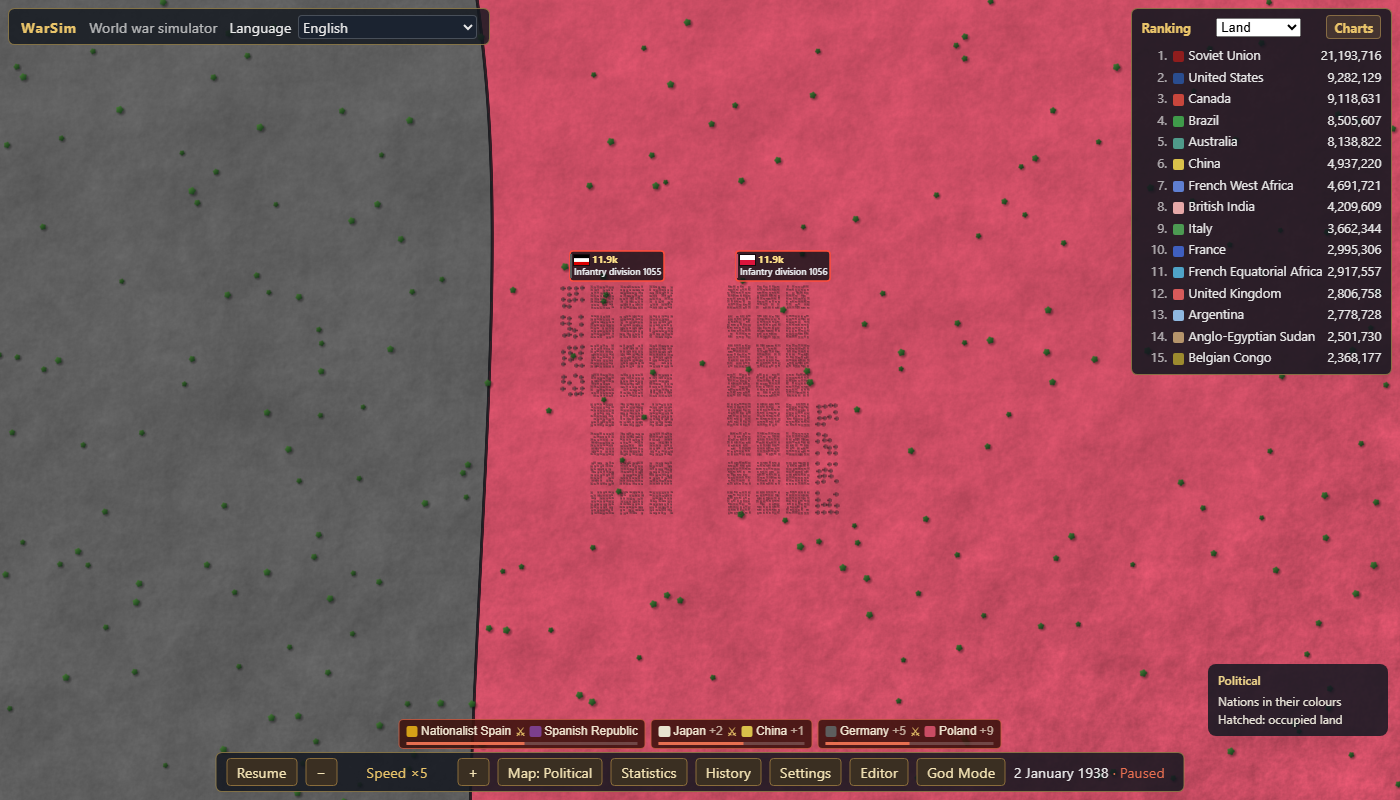
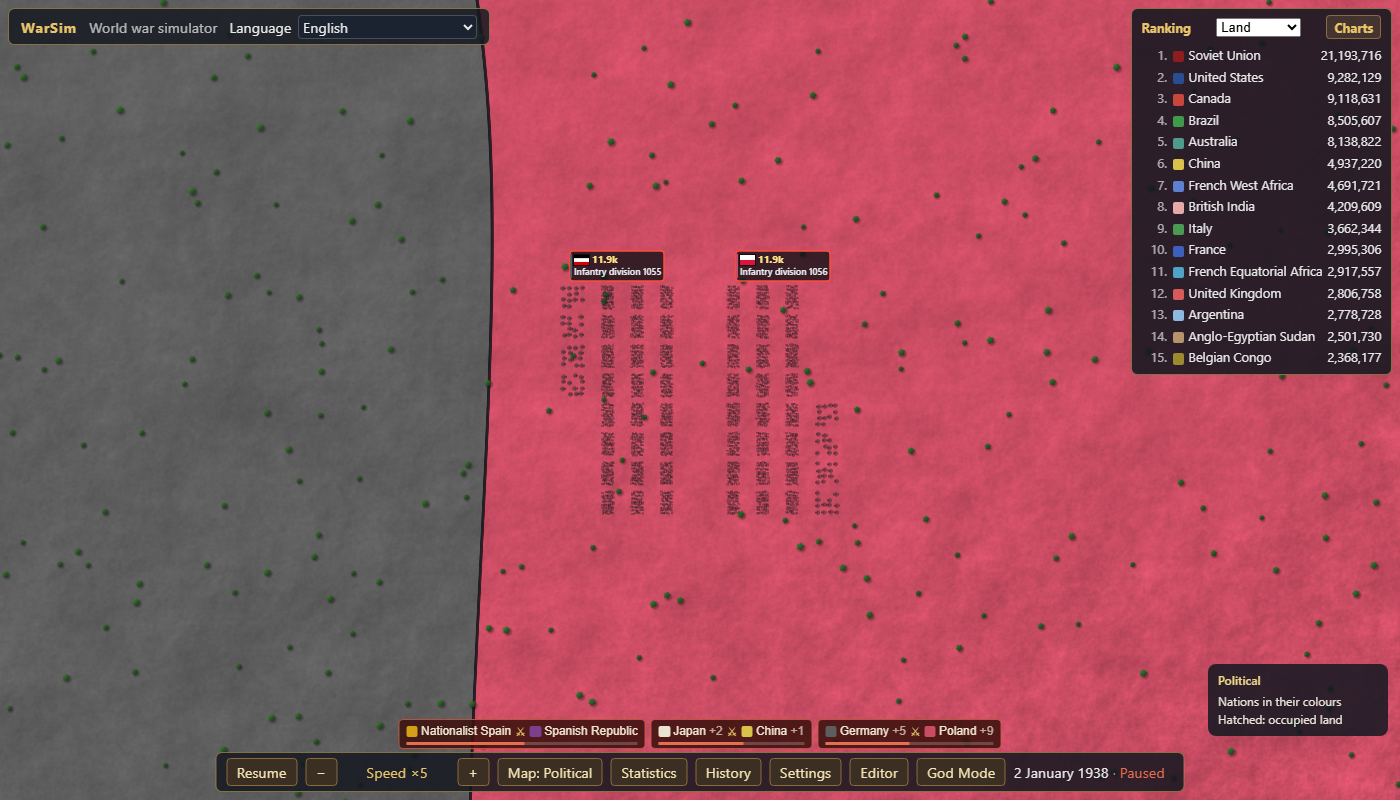
PLAN 2.14c2: a battalion in contact looks like one; PLAN 2.14c is done
The critic's R2-B2: a battalion under fire looked like one at rest, men
standing in their grid.

- A sixth atlas frame, a soldier prone. Infantry of a formation in contact
  is drawn with it at T2 and T3 (shownFrame); guns and tanks as they are.
- At T3 its ranks close up to the front half of the battalion's ground and
  lie loosely (figureOffsets with firingLine); a loss still takes the last
  figure of the element's order.

Tests: unit individuals (2 more) and unitLooks; the e2e battleView1938 goes
on to 5 m/px in contact and after a peace by God Mode. Pictures looked at.
View only: the pin is untouched. Twelve close-zoom spec files run by hand,
green.

Claude-Session: https://claude.ai/code/session_01BZNRqrNVc9p5qiGoEHKrrg

Changed region(s): [[0.3993, 0.3438, 0.4914, 0.6562], [0.5221, 0.3438, 0.5836, 0.6562]]

diff --git a/tests/e2e/battleView1938.spec.ts b/tests/e2e/battleView1938.spec.ts
@@ -131,4 +131,54 @@ test('two formations in contact are both in one view at 20 m/px, and face each o
   await page.evaluate(() => window.__warsim!.view!.draw());
   console.log(`20 m/px between a German and a Polish division a cell apart: ${seen.german.on} of ${seen.german.all} German and ${seen.polish.on} of ${seen.polish.all} Polish elements on the screen, ${gap.toFixed(0)} px between the front rows`);
   await page.screenshot({ path: path.join(out, 'battle-20m.png') });
+
+  // PLAN 2.14c2: a battalion in contact looks like one. At 5 m/px on the ground between the
+  // front rows: the infantry of both sides is down (the prone frame) in a loose line at the
+  // front of each battalion's ground; the guns are guns.
+  const figures = (x: number, y: number): Promise<{ frames: Record<number, number>; depth: number; battalions: number }> =>
+    page.evaluate(async ({ x, y }) => {
+      const v = window.__warsim!.view!;
+      v.controller.set({ cx: x, cy: y, scale: (v.metresPerPx * v.controller.cam.scale) / 5 });
+      const t0 = performance.now();
+      const near = (): boolean => {
+        if (Math.abs(v.elementsZoom / 5 - 1) >= 0.01 || v.individualCount === 0) return false;
+        for (let i = 0; i < v.elementCount; i++) if (Math.abs(v.elementX[i]! - x) < 0.2 && Math.abs(v.elementY[i]! - y) < 0.2) return true;
+        return false;
+      };
+      while (!near()) {
+        if (performance.now() - t0 > 20_000) throw new Error('no figures at 5 m/px');
+        await new Promise((d) => setTimeout(d, 50));
+      }
+      for (let k = 0; k < 40 && v.unitsAnimating(); k++) {
+        v.draw();
+        await new Promise((d) => setTimeout(d, 25));
+      }
+      v.draw();
+      const frames: Record<number, number> = {};
+      // Per battalion (an element with more than 16 figures): how deep its figures stand along the block's facing (east-west here), cells.
+      const by = new Map<number, number[]>();
+      for (let j = 0; j < v.individualCount; j++) {
+        frames[v.individualFrame(j)] = (frames[v.individualFrame(j)] ?? 0) + 1;
+        by.set(v.individualOwner[j]!, [...(by.get(v.individualOwner[j]!) ?? []), v.individualX[j]!]);
+      }
+      const depths = [...by.values()].filter((xs) => xs.length > 16).map((xs) => Math.max(...xs) - Math.min(...xs));
+      return { frames, depth: depths.reduce((s, d) => s + d, 0) / Math.max(1, depths.length), battalions: depths.length };
+    }, { x, y });
+  const fight = await figures(SITE[0], SITE[1]);
+  await page.screenshot({ path: path.join(out, 'contact-5m.png') });
+  expect(fight.battalions, 'battalions in the view').toBeGreaterThan(4);
+  expect(fight.frames[0] ?? 0, 'figures standing, in contact').toBe(0);
+  expect(fight.frames[5] ?? 0, 'figures prone, in contact').toBeGreaterThan(200);
+
+  // Peace by God Mode: the contact ends, the blocks go back to the formations' places, the men stand in their ranks.
+  const war = await page.evaluate(async ({ ger, pol }) => (await window.__warsim!.sim.inspect()).wars.find((w) => w.attackers.includes(ger) && w.defenders.includes(pol))!.id, { ger: GER, pol: POL });
+  await step(page, [{ kind: 'forcePeace', war }], 2);
+  const rest = await figures(SITE[0] - 0.5, SITE[1]);
+  await page.screenshot({ path: path.join(out, 'rest-5m.png') });
+  expect(rest.battalions, 'battalions in the view, at rest').toBeGreaterThan(4);
+  expect(rest.frames[5] ?? 0, 'figures prone, at rest').toBe(0);
+  expect(rest.frames[0] ?? 0, 'figures standing, at rest').toBeGreaterThan(200);
+  // The ranks of a battalion in contact take about half the depth they take at rest.
+  expect(fight.depth / rest.depth, 'depth of a battalion\'s figures, in contact against at rest').toBeLessThan(0.65);
+  console.log(`5 m/px: in contact ${JSON.stringify(fight.frames)} figures by frame, a battalion ${(fight.depth * 19_570).toFixed(0)} m deep; at rest ${JSON.stringify(rest.frames)}, ${(rest.depth * 19_570).toFixed(0)} m deep`);
 });

diff --git a/tests/unit/individuals.test.ts b/tests/unit/individuals.test.ts
@@ -1,7 +1,7 @@
 import { describe, expect, it } from 'vitest';
 import { hash2, pair } from '../../src/render/hash';
-import { Frame } from '../../src/shared/unitLooks';
-import { figureCells, figureCount, figureOffsets, FOOTPRINT_CELLS, gridSide, MAX_FIGURES, subSlotOrder } from '../../src/render/units/individuals';
+import { Frame, shownFrame } from '../../src/shared/unitLooks';
+import { figureCells, figureCount, figureOffsets, FOOTPRINT_CELLS, gridSide, LINE_DEPTH, MAX_FIGURES, subSlotOrder } from '../../src/render/units/individuals';
 
 // PLAN 2.6 and 2.10b: an element as its individuals at T3 (ADR-69, ADR-80). How many, and where
 // each stands. The drawing and the sim's strengths are checked in the browser
@@ -107,6 +107,45 @@ describe('where they stand', () => {
     }
   });
 
+  // PLAN 2.14c2: a battalion in contact does not stand in its parade grid.
+  it('in contact the men lie in a loose line at the front of the footprint: half as deep, inside it, a loss still the last figure', () => {
+    const along = (off: number[]): number[] => points(off).map(([dx]) => dx); // facing east: along is x
+    for (const element of [1, 77, 19_353]) {
+      const rest = figureOffsets(element, 8, 64, 0);
+      const line = figureOffsets(element, 8, 64, 0, true);
+      expect(line).not.toEqual(rest);
+      const depth = (a: number[]): number => Math.max(...a) - Math.min(...a);
+      // The ranks closed up: at most 0.6 of the depth at rest, and forward of the middle on the whole.
+      expect(depth(along(line)) / depth(along(rest))).toBeLessThan(0.6);
+      expect(depth(along(line)) / depth(along(rest))).toBeGreaterThan(LINE_DEPTH * 0.8);
+      const mean = (a: number[]): number => a.reduce((s, v) => s + v, 0) / a.length;
+      expect(mean(along(line))).toBeGreaterThan(FOOTPRINT_CELLS * 0.15);
+      expect(Math.abs(mean(along(rest)))).toBeLessThan(FOOTPRINT_CELLS * 0.03);
+      // Inside the footprint, front edge included.
+      for (const [dx, dy] of points(line)) {
+        expect(Math.abs(dx)).toBeLessThan(FOOTPRINT_CELLS / 2);
+        expect(Math.abs(dy)).toBeLessThan(FOOTPRINT_CELLS / 2);
+      }
+      // Less regular than the grid: across the front the men are further off their files.
+      const across = (off: number[]): number[] => points(off).map(([, dy]) => dy);
+      const offFile = (a: number[]): number => mean(a.map((v) => Math.abs(v / (FOOTPRINT_CELLS / 8) - Math.round(v / (FOOTPRINT_CELLS / 8) - 0.5) - 0.5)));
+      expect(offFile(across(line))).toBeGreaterThan(offFile(across(rest)) * 1.4);
+      // The same man in the same file: a loss takes the last figure of the order away.
+      for (const n of [63, 40, 1]) expect(figureOffsets(element, 8, n, 0, true)).toEqual(line.slice(0, n * 2));
+      // And it turns with the block as the grid does.
+      const turned = points(figureOffsets(element, 8, 64, Math.PI / 2, true));
+      points(line).forEach(([dx, dy], i) => {
+        expect(turned[i]![0]).toBeCloseTo(-dy, 12);
+        expect(turned[i]![1]).toBeCloseTo(dx, 12);
+      });
+    }
+  });
+
+  it('infantry in contact is drawn prone; guns, tanks and infantry at rest as they are', () => {
+    expect(shownFrame(Frame.infantry, true)).toBe(Frame.prone);
+    expect(shownFrame(Frame.infantry, false)).toBe(Frame.infantry);
+    for (const f of [Frame.tank, Frame.gun, Frame.ship, Frame.aircraft]) expect(shownFrame(f, true)).toBe(f);
+  });
   it('a loss takes the last figure of the order: the others stand where they stood', () => {
     const full = figureOffsets(42, gridSide(Frame.infantry, 64), 64, 1.1);
     for (const n of [63, 40, 1]) expect(figureOffsets(42, gridSide(Frame.infantry, 64), n, 1.1)).toEqual(full.slice(0, n * 2));

diff --git a/src/app/MapView.ts b/src/app/MapView.ts
@@ -30,6 +30,7 @@ const FLAG_MOVE_MS = 150;
 const FLAG_MAX_RISE = 40;
 import { drawNationLabels, fadeNationLabels, layoutNationLabels, type Measure, type PlacedNationLabel } from '../render/labels/nationLabels';
 import { t, type MessageKey } from '../ui/i18n';
+import { Frame, shownFrame } from '../shared/unitLooks';
 import { modeColor, type MapMode, type Relation } from '../shared/mapModes';
 import { NATION_STRIDE, NationField, type Snapshot } from '../shared/protocol';
 import { screenToWorld, worldToScreen, wrapOffsets, type Camera, type MapGeometry } from '../render/camera';
@@ -625,6 +626,13 @@ export class MapView {
   elementWalks(i: number): boolean {
     return this.elementProxies.data[i * PROXY_STRIDE + 6]! % 1 > 0.25;
   }
+  /** The atlas frame element sprite `i` and figure `j` were uploaded with (`Frame`; tests). */
+  elementFrame(i: number): number {
+    return Math.floor(this.elementProxies.data[i * PROXY_STRIDE + 6]!);
+  }
+  individualFrame(j: number): number {
+    return Math.floor(this.individualProxies.data[j * PROXY_STRIDE + 6]!);
+  }
   /** Whether figure `j` was uploaded as walking (tests). */
   individualWalks(j: number): boolean {
     return this.individualProxies.data[j * PROXY_STRIDE + 6]! % 1 > 0.25;
@@ -663,7 +671,8 @@ export class MapView {
       p.data[o + 4] = e.facing[i]!;
       p.data[o + 5] = ELEMENT_CELLS;
       // The walk is for a formation on the march: one that holds in contact stands (PLAN 2.11e).
-      p.data[o + 6] = e.frame[i]! + (marching(e.flags[i]!) ? 0.5 : 0);
+      // Infantry in contact is down and firing (PLAN 2.14c2).
+      p.data[o + 6] = shownFrame(e.frame[i]!, (e.flags[i]! & FormationFlag.engaged) !== 0) + (marching(e.flags[i]!) ? 0.5 : 0);
       // What is left of the element: its share of its size (PLAN 2.11g; an empty one is gone from the sim).
       p.data[o + 7] = spriteAlpha(e.strength[i]!, e.size[i]!);
       p.colors.set(this.spriteRgba(e.nation[i]!), i * 4);
@@ -726,7 +735,9 @@ export class MapView {
       // The grid of the whole element: what is left of it stands where it stood (PLAN 2.10b).
       const side = gridSide(frame, figureCount(e.size[i]!, e.size[i]!));
       const size = figureCells(side);
-      const off = figureOffsets(e.id[i]!, side, n, e.facing[i]!);
+      // In contact the men of a battalion lie in a loose line at the front of its ground (PLAN 2.14c2).
+      const inContact = (e.flags[i]! & FormationFlag.engaged) !== 0;
+      const off = figureOffsets(e.id[i]!, side, n, e.facing[i]!, inContact && frame === Frame.infantry);
       const x = this.unwrapped(e.x[i]!, e.prevX[i]!);
       const moving = marching(e.flags[i]!) ? 0.5 : 0;
       const rgba = this.spriteRgba(e.nation[i]!);
@@ -740,7 +751,7 @@ export class MapView {
         p.data[o + 3] = e.y[i]! + dy - p.originY;
         p.data[o + 4] = e.facing[i]!;
         p.data[o + 5] = size;
-        p.data[o + 6] = frame + moving;
+        p.data[o + 6] = shownFrame(frame, inContact) + moving;
         p.data[o + 7] = 1;
         p.colors.set(rgba, j * 4);
         owner[j] = e.id[i]!;

diff --git a/src/render/units/individuals.ts b/src/render/units/individuals.ts
@@ -27,6 +27,14 @@ export const MAX_FIGURES = 64;
 export const FOOTPRINT_CELLS = 0.024;
 /** How far a figure stands from the centre of its sub-slot, as a share of the sub-slot's side. */
 const JITTER = 0.18;
+/**
+ * Infantry in contact (PLAN 2.14c2): the share of the footprint's depth its ranks take, at the
+ * front of it, and how far a man lies from his place in them (shares of the sub-slot's side;
+ * along the facing it is of the closed-up rank's depth).
+ */
+export const LINE_DEPTH = 0.5;
+const LINE_JITTER_ACROSS = 0.34;
+const LINE_JITTER_ALONG = 0.45;
 /** A figure fills this share of its sub-slot. */
 const FILL = 0.92;
 
@@ -69,19 +77,26 @@ export function subSlotOrder(element: number, side: number): number[] {
  * cells from its slot pose: [dx0, dy0, dx1, dy1, …], x east and y south, the block's front
  * toward `facing` (radians).
  */
-export function figureOffsets(element: number, side: number, count: number, facing: number): number[] {
+export function figureOffsets(element: number, side: number, count: number, facing: number, firingLine = false): number[] {
   const pitch = FOOTPRINT_CELLS / side;
   const order = subSlotOrder(element, side);
   const fx = Math.cos(facing);
   const fy = Math.sin(facing);
   const out: number[] = [];
+  // In contact (PLAN 2.14c2) the men are not in their ranks: the ranks close up towards the
+  // front of the footprint, LINE_DEPTH of its depth, and each man lies a good way off his
+  // place in them. The same man in the same file: a loss takes the same figure away.
+  const jitterAcross = firingLine ? LINE_JITTER_ACROSS : JITTER;
+  const jitterAlong = firingLine ? LINE_JITTER_ALONG : JITTER;
+  const depth = firingLine ? LINE_DEPTH : 1;
+  const forward = firingLine ? ((1 - LINE_DEPTH) * FOOTPRINT_CELLS) / 2 : 0;
   for (let k = 0; k < count; k++) {
     const slot = order[k]!;
     const row = Math.floor(slot / side);
     const col = slot - row * side;
     const [jx, jy] = pair(hash2(element, 4096 + slot));
-    const across = (col - (side - 1) / 2 + jx * JITTER) * pitch;
-    const along = ((side - 1) / 2 - row + jy * JITTER) * pitch; // front row ahead of the centre
+    const across = (col - (side - 1) / 2 + jx * jitterAcross) * pitch;
+    const along = ((side - 1) / 2 - row + jy * jitterAlong) * pitch * depth + forward; // front row ahead of the centre
     // Forward (fx, fy); right-hand side (−fy, fx): as the slots of the formation's block.
     out.push(fx * along - fy * across, fy * along + fx * across);
   }

diff --git a/src/render/units/atlas.ts b/src/render/units/atlas.ts
@@ -1,8 +1,8 @@
 /**
  * Procedural unit sprite atlas (our own art, DATA_SOURCES "Unit sprites"): white silhouettes
  * with a dark outline, tinted per nation in the shader. Frames are 64×64 in a strip, in the
- * order of `Frame` (`shared/unitLooks`): infantry, tank, ship, aircraft, gun. Phase 2 replaces
- * this with the full atlas.
+ * order of `Frame` (`shared/unitLooks`): infantry, tank, ship, aircraft, gun, infantry prone.
+ * Phase 2 replaces this with the full atlas.
  */
 import { Frame } from '../../shared/unitLooks';
 
@@ -113,6 +113,26 @@ export function drawUnitAtlas(): HTMLCanvasElement {
     g.fill();
     g.fillRect(6, -3, 24, 6);
     g.strokeRect(6, -3, 24, 6);
+  });
+  // Infantry in contact (PLAN 2.14c2): a soldier lying prone, seen from above, facing +x: legs
+  // back, body, head, the rifle out in front. Long and narrow, where the standing one is broad.
+  frame(Frame.prone, (g) => {
+    for (const y of [-5, 5]) {
+      g.beginPath();
+      g.roundRect(-30, y - 3, 20, 6, 3);
+      g.stroke();
+      g.fill();
+    }
+    g.beginPath();
+    g.ellipse(-4, 0, 14, 9, 0, 0, Math.PI * 2);
+    g.stroke();
+    g.fill();
+    g.beginPath();
+    g.arc(10, 0, 7, 0, Math.PI * 2);
+    g.stroke();
+    g.fill();
+    g.fillRect(12, 3, 18, 3);
+    g.strokeRect(12, 3, 18, 3);
   });
   return c;
 }

diff --git a/src/shared/unitLooks.ts b/src/shared/unitLooks.ts
@@ -6,8 +6,17 @@
  */
 
 /** Frames of the unit sprite atlas (`render/units/atlas`), in its order. */
-export const Frame = { infantry: 0, tank: 1, ship: 2, aircraft: 3, gun: 4 } as const;
+export const Frame = { infantry: 0, tank: 1, ship: 2, aircraft: 3, gun: 4, prone: 5 } as const;
 export type Frame = (typeof Frame)[keyof typeof Frame];
+
+/**
+ * The frame an element is drawn with: its class's (`frameOf`, what the snapshot carries), but
+ * infantry in contact is down and firing (PLAN 2.14c2). A battalion under fire looked like one
+ * at rest: men standing in their grid.
+ */
+export function shownFrame(frame: number, inContact: boolean): number {
+  return inContact && frame === Frame.infantry ? Frame.prone : frame;
+}
 
 export function frameOf(cls: string): Frame {
   if (cls.startsWith('armor') || cls === 'mech') return Frame.tank;

diff --git a/tests/unit/unitLooks.test.ts b/tests/unit/unitLooks.test.ts
@@ -18,8 +18,10 @@ describe('frameOf', () => {
   });
 
   it('frames are the atlas order, without gaps, and every class has one', () => {
-    expect(Object.values(Frame)).toEqual([0, 1, 2, 3, 4]);
+    // Five classes' frames and, since PLAN 2.14c2, the sixth: infantry prone, which no class has of itself (`shownFrame`).
+    expect(Object.values(Frame)).toEqual([0, 1, 2, 3, 4, 5]);
     for (const cls of UNIT_CLASSES) expect(Object.values(Frame)).toContain(frameOf(cls));
+    for (const cls of UNIT_CLASSES) expect(frameOf(cls), cls).not.toBe(Frame.prone);
   });
 });
 

diff --git a/PLAN.md b/PLAN.md
@@ -1711,7 +1711,7 @@ quick sweep as a smoke test.
       `individuals` and `markerStacks`: 22 tests green.
     - *Not done:* the picked formation is not marked on the map (no ring, no lit tag); and
       a tag can stand under the war banners at the bottom of the screen. Lines for 2.14f.
-  - [ ] 2.14c A battle fits a close view. Two formations in contact are both in one view at
+  - [x] 2.14c A battle fits a close view. Two formations in contact are both in one view at
     20 m/px and face each other (the critic: the closest pair stood 29 km apart, a view is
     32 km wide). The decision is of where engaged elements are drawn, or stand: at the cell
     edge they fight across. Posture and facing for figures in contact.
@@ -1781,11 +1781,33 @@ quick sweep as a smoke test.
         - *Hops.* When a formation's nearest enemy changes, its block goes to another
           line in an hour. How often in a running war was not counted.
         - 3% of the formations in contact, and the 3 pairs of blocks on one another.
-    - [ ] 2.14c2 A battalion in contact looks like one: posture and spread of its figures
+    - [x] 2.14c2 A battalion in contact looks like one: posture and spread of its figures
       at T3 (they stand in the parade grid of a battalion at rest), and its sprite at T2.
       AT: e2e, pictures looked at: the figures of a battalion in contact differ from those
       of one at rest by a stated measure (their spread across the front, a frame of their
       own), and go back when the contact ends.
+      Done 2026-10-05.
+      - *A frame of their own:* the atlas has a sixth frame, a soldier lying prone seen from
+        above (`Frame.prone`). Infantry of a formation in contact is drawn with it, as a
+        battalion's sprite at T2 and as its figures at T3 (`shownFrame`). Guns and tanks
+        are as they are. The snapshot still carries the class's frame: the view decides.
+      - *Their ground:* in contact the ranks of a battalion close up to the front half of
+        its footprint and each man lies further off his place in them (`figureOffsets`
+        with `firingLine`). The same man in the same file: a loss still takes the last
+        figure of the element's order.
+      - *Tests:* unit `individuals.test.ts` (2 more: the line is at most 0.6 as deep as the
+        grid, forward of the middle, inside the footprint, less regular across, turns with
+        the block, losses the same) and `unitLooks.test.ts` (six frames; no class has the
+        prone one of itself). e2e, in `battleView1938.spec.ts`: at 5 m/px between the two
+        divisions 2,955 figures are prone and none stands, the guns are guns, a battalion's
+        figures are 226 m deep; after peace by God Mode the blocks are back at the
+        formations' places, 1,476 stand and none is prone, 427 m deep (0.53).
+      - *Pictures looked at* (`docs/evidence/2.14/contact-5m.png`, `rest-5m.png`): in
+        contact two sides of lines of men lying towards each other across a gap, the
+        batteries behind; at rest the squares of standing men. They differ at a glance.
+      - *Run by hand* (ADR-87): twelve spec files of the close zoom, 18 tests green.
+      - *Not done:* no muzzle flash or movement on a prone figure beyond the shots already
+        drawn between the blocks; tanks and guns in contact look as at rest.
   - [ ] 2.14d The ground at T2 and T3 is the terrain's. Its colour comes from the terrain,
     the nation is a tint at the border (ADR-82's tint for occupied land with it).
     AT: the ground of one terrain on two nations' land differs by less than a stated share

diff --git a/PROGRESS.md b/PROGRESS.md
@@ -5391,3 +5391,19 @@ No rule changed and nothing on screen changed. One task came out of it.
   to 28 px away) was not looked at; how often a block changes its line was not counted.
   Both under PLAN 2.14f. PLAN 2.14c2 (a battalion in contact looks like one) is next.
 - **Run by hand:** thirteen close-zoom spec files, 19 tests green.
+
+## 2026-10-05 — PLAN 2.14c2: a battalion in contact looks like one. PLAN 2.14c is done
+
+- **What the critic saw:** "figures in contact stand in their grid and face one way, and but
+  for the dashes a battalion under fire looks like one at rest."
+- **Built:** a sixth atlas frame, a soldier prone; infantry of a formation in contact is drawn
+  with it at T2 and T3. At T3 its ranks close up to the front half of the battalion's ground
+  and lie loosely. Back to standing ranks when the contact ends.
+- **Tests:** 2 unit more (669); the e2e of 2.14c1 goes on to 5 m/px, in contact and after a
+  peace by God Mode: 2,955 prone and none standing, then 1,476 standing and none prone; a
+  battalion 226 m deep against 427 m.
+- **Looked at both pictures:** lines of men lying towards each other across the gap, against
+  squares of standing men. They differ at a glance.
+- **The pin:** not touched (view only).
+- **Run by hand:** twelve close-zoom spec files, 18 tests green.
+- **Next:** PLAN 2.14d, the ground at T2 and T3 is the terrain's.
